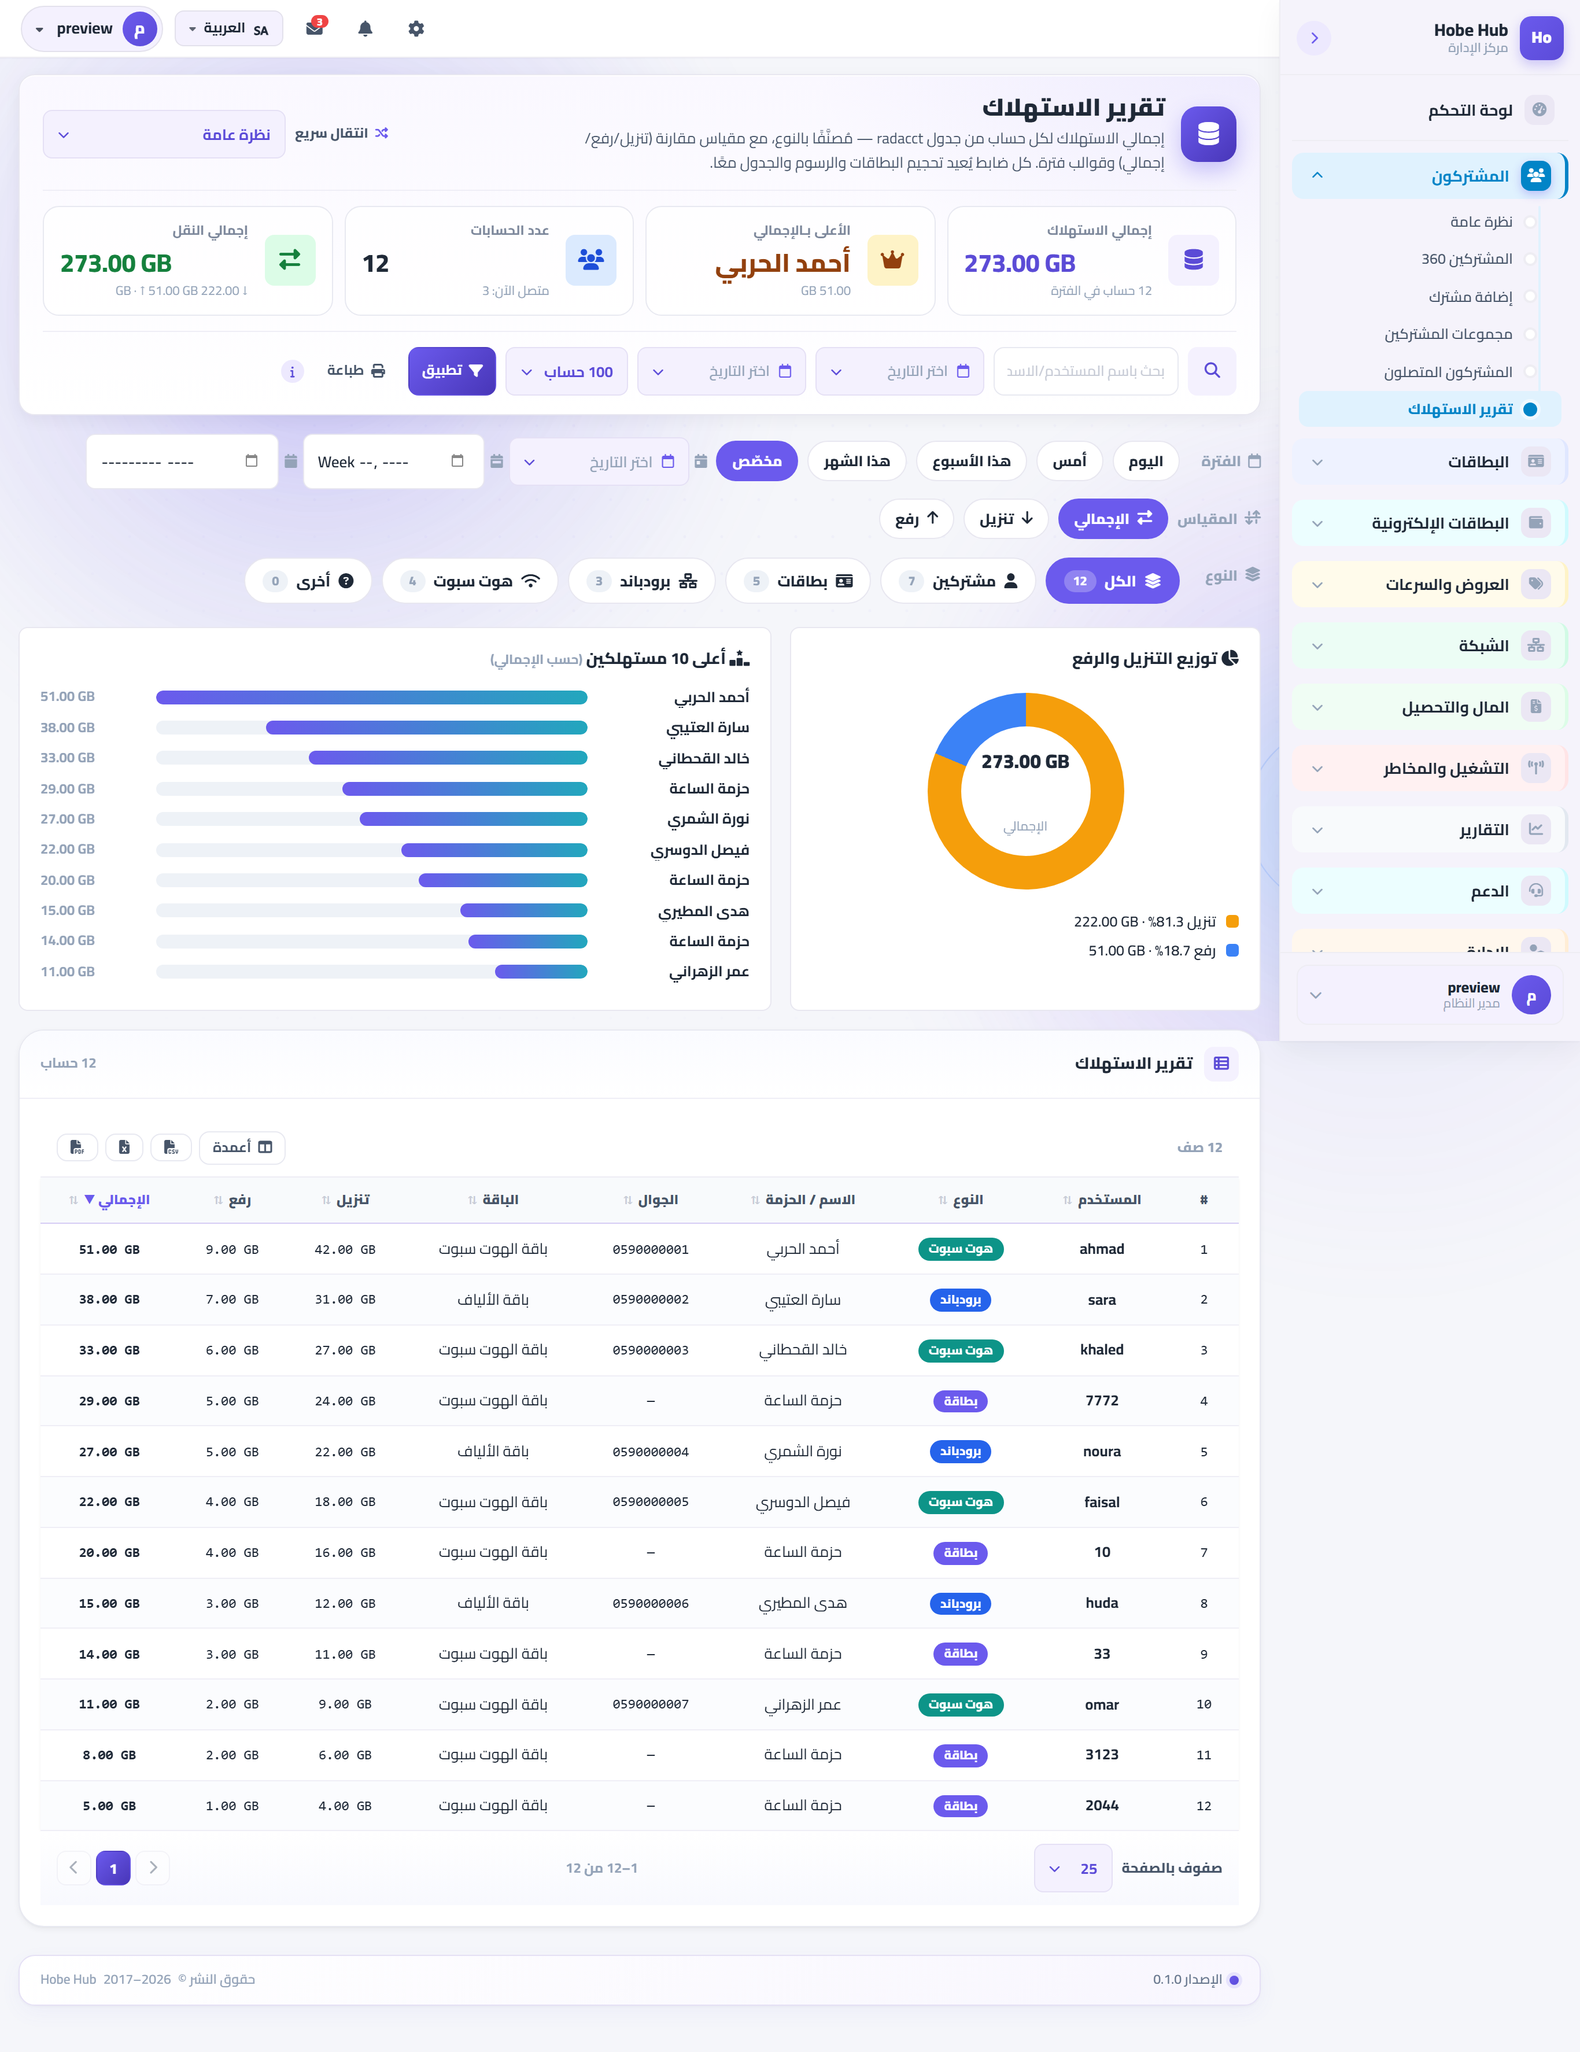
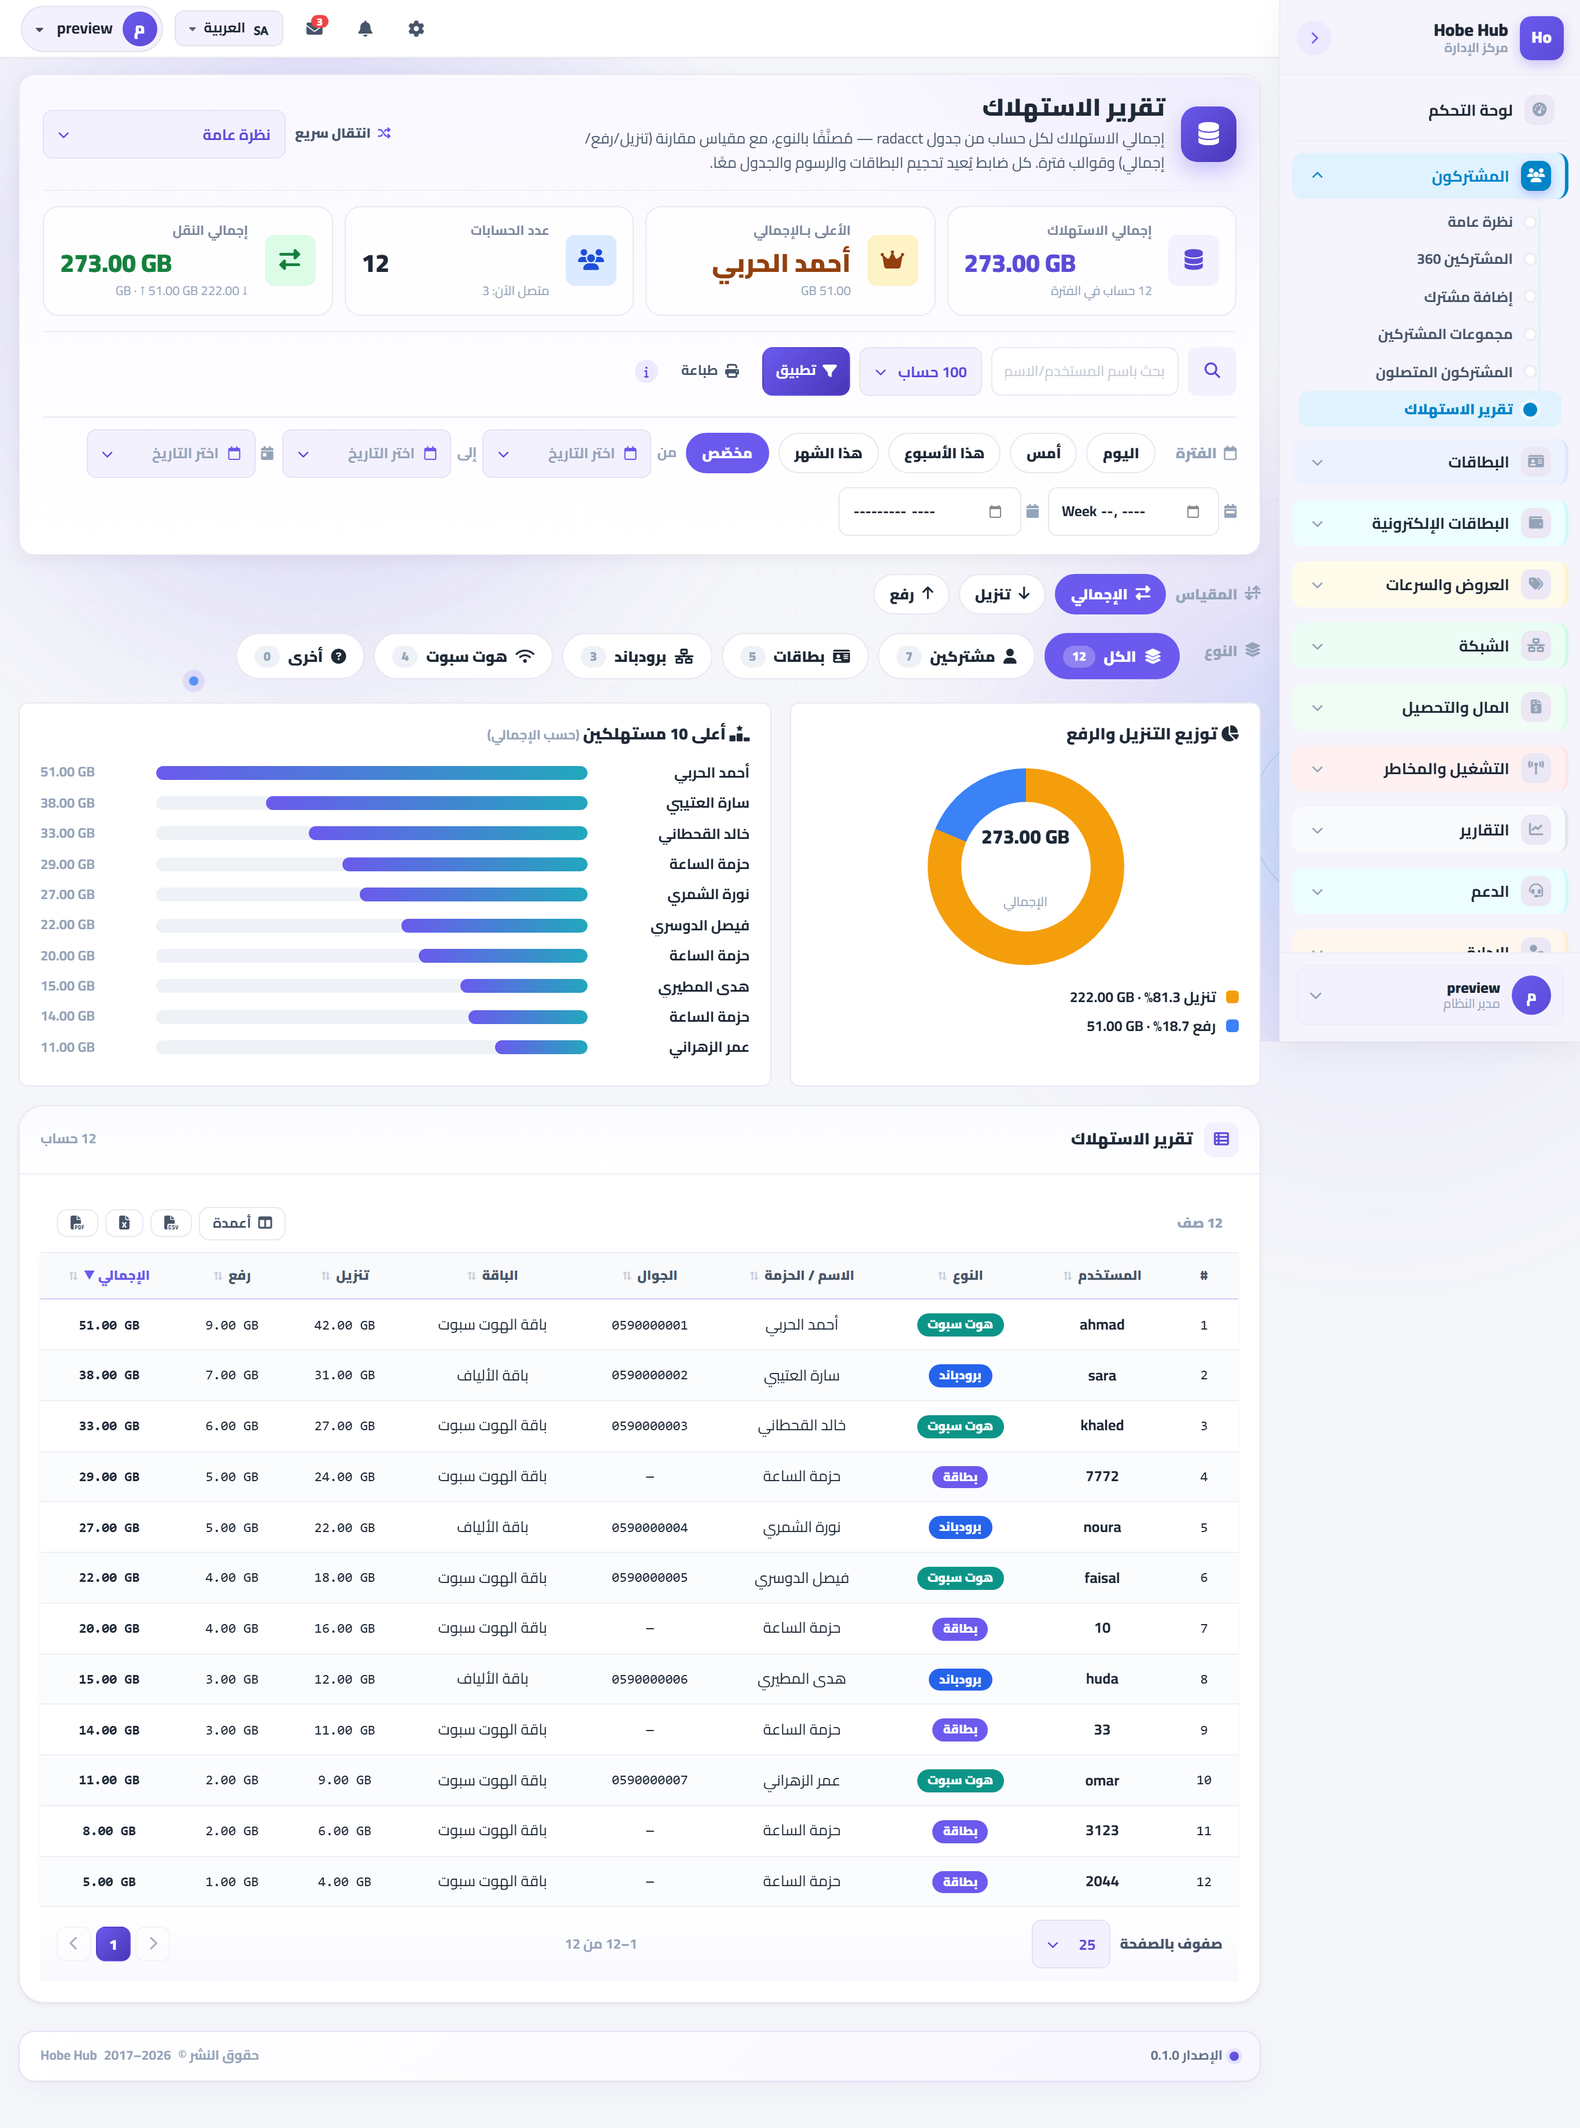
fix(usage-report): إزالة تكرار اختيار التاريخ — مصدر واحد «الفترة»
المالك لاحظ منتقيي تاريخ «اختر التاريخ» في حزام البحث العلوي مكرّرين مع
قسم «الفترة». الإصلاح: نقل ضوابط الفترة كلها إلى صفٍّ واحد داخل نموذج
الحزام نفسه، وإزالة الحقول المكرّرة من أعلى الحزام.

• أعلى الحزام الآن: بحث + حجم الصفحة + تطبيق + طباعة فقط (بلا منتقي تاريخ).
• «الفترة» = المصدر الوحيد لاختيار التاريخ: قوالب سريعة (اليوم/أمس/هذا
  الأسبوع/هذا الشهر/مخصّص) + مدى من/إلى + منتقيات يوم/أسبوع/شهر — كلها
  داخل نموذج واحد (نموذج الهيرو). مجموعة واحدة من حقول التاريخ، لا حقول
  مخفيّة مكرّرة، ولا نموذج منتقيات يتيم (أُزيل الـ<form> المستقل القديم).
• تحرير «مخصّص» (من/إلى) يمسح المنتقيات المحدّدة كي يفوز المدى (أولوية
  الخادم: قالب>محدّد>مخصّص دون تغيير). النوع/المقياس دون مساس.
• Cairo/RTL/نظام التصميم سليم. لا تغيير خلفي (نفس بارامترات reports.py).

اختبار (44، +2): test_single_date_control_set يؤكّد ظهور كل حقل تاريخ
مرّة واحدة بالضبط + لا <form> منتقيات يتيم + بقاء البحث/الحجم؛
test_date_filter_still_applies_after_dedup يؤكّد المخصّص+المحدّد يُعيدان
التحجيم. لقطتا preview محدّثتان تُظهران قسم تاريخ واحدًا. بلا دمج.

diff --git a/app/templates/radius/rep_subscriber_consumption.html b/app/templates/radius/rep_subscriber_consumption.html
@@ -38,6 +38,11 @@
     min-width:62px;display:inline-flex;align-items:center;gap:6px}
   .usage-tabs.sm{margin:0}
   .usage-tabs.sm .usage-tab{padding:7px 13px;font-size:12.5px}
+  /* صفّ الفترة الوحيد داخل حزام الهيرو (يلتفّ لسطر كامل تحت البحث) —
+     مصدر التاريخ الوحيد، لا تكرار في الأعلى. */
+  .usage-period{flex-basis:100%;width:100%;display:flex;align-items:center;
+    flex-wrap:wrap;gap:8px;margin-top:10px;padding-top:10px;
+    border-top:1px solid var(--hub-border,#e6eaf2)}
   /* منتقيات التاريخ المحدّدة: نرث إصلاح وضوح التقويم (no dark-on-dark). */
   .usage-spec{display:inline-flex;align-items:center;gap:5px;font-size:12px;
     font-weight:700;color:var(--hub-text-mute,#475569)}
@@ -105,6 +110,11 @@
 {% set _csw = (spec_week or none) %}
 {% set _csm = (spec_month or none) %}
 {% set _cq = (q or none) %}
+{% set _presets = [
+  ('today','اليوم'),('yesterday','أمس'),('week','هذا الأسبوع'),
+  ('month','هذا الشهر'),('custom','مخصّص')
+] %}
+{% set _metrics = [('total','الإجمالي','right-left'),('dl','تنزيل','arrow-down'),('ul','رفع','arrow-up')] %}
 
 {# ───── مؤشرات KPI من الإجماليات (مفلترة بالنوع+الفترة، مرتّبة بالمقياس) ───── #}
 {% set _top_label = (top.display_name or top.username) if top else '—' %}
@@ -126,15 +136,13 @@
   ],
   search_action=url_for('radius.rep_subscriber_consumption')
 ) %}
-  {# نُبقي النوع+المقياس عبر النموذج؛ النموذج يُرسل بلا preset فيُحلّ بالمنتقي/المخصّص #}
+  {# النوع+المقياس مخفيّان عبر النموذج. ضوابط الفترة كلها في صفٍّ واحد
+     داخل هذا النموذج (مصدر تاريخ وحيد — أُزيلت منتقيات التاريخ المكرّرة
+     من أعلى الحزام). أعلى الحزام: بحث + حجم الصفحة + تطبيق + طباعة فقط. #}
   <input type="hidden" name="type" value="{{ utype }}">
   <input type="hidden" name="metric" value="{{ metric }}">
   <input class="hub-input grow" type="text" name="q"
          placeholder="{{ _('بحث باسم المستخدم/الاسم/الجوال/الحزمة...') }}" value="{{ q or '' }}">
-  <input class="hub-input" type="date" name="date_from"
-         value="{{ filters.date_from if filters else '' }}" title="{{ _('من تاريخ (مخصّص)') }}">
-  <input class="hub-input" type="date" name="date_to"
-         value="{{ filters.date_to if filters else '' }}" title="{{ _('إلى تاريخ (مخصّص)') }}">
   <select class="hub-select" name="limit">
     {% for n in [100, 200, 500, 1000] %}
       <option value="{{ n }}" {% if limit == n %}selected{% endif %}>{{ n }} حساب</option>
@@ -149,17 +157,11 @@
   {% endif %}
   <span class="hub-hint" tabindex="0"
         data-hint="بطاقة=قسيمة هوت سبوت (جدول cards)؛ مشترك=حساب مُسمّى؛ برودباند=PPPoE؛ هوت سبوت=مشترك هوت سبوت؛ أخرى=غير مرتبط. المقياس يقود الترتيب وأعلى-10. التجميع على تاريخ بداية الجلسة."><i class="fa-solid fa-info"></i></span>
-{% endcall %}
-</section>{# /hub-hero-shell #}
-
-{# ───── ضوابط الفترة (قوالب سريعة + منتقيات محدّدة) + المقياس ───── #}
-{% set _presets = [
-  ('today','اليوم'),('yesterday','أمس'),('week','هذا الأسبوع'),
-  ('month','هذا الشهر'),('custom','مخصّص')
-] %}
-{% set _metrics = [('total','الإجمالي','right-left'),('dl','تنزيل','arrow-down'),('ul','رفع','arrow-up')] %}
-<div class="usage-controls" data-testid="usage-controls">
-  <div class="usage-ctl-row" data-testid="usage-date-presets">
+  {# ── الفترة: المصدر الوحيد لاختيار التاريخ (داخل نموذج الحزام نفسه) ──
+     قوالب سريعة (روابط) + مدى مخصّص من/إلى + منتقيات يوم/أسبوع/شهر. تحرير
+     «مخصّص» يمسح المنتقيات المحدّدة كي يفوز المدى (أولوية الخادم:
+     قالب>محدّد>مخصّص). #}
+  <div class="usage-period" data-testid="usage-date-presets">
     <span class="usage-ctl-label"><i class="fa-regular fa-calendar"></i> {{ _('الفترة') }}</span>
     <div class="usage-tabs sm">
       {% for pk, plabel in _presets %}
@@ -169,21 +171,29 @@
                           q=_cq, limit=limit) }}">{{ plabel }}</a>
       {% endfor %}
     </div>
-    {# منتقيات محدّدة: يوم/أسبوع/شهر — تُرسَل عبر نموذج GET مستقل #}
-    <form class="usage-spec" method="get" action="{{ url_for('radius.rep_subscriber_consumption') }}">
-      <input type="hidden" name="type" value="{{ utype }}"><input type="hidden" name="metric" value="{{ metric }}">
-      <input type="hidden" name="q" value="{{ q or '' }}"><input type="hidden" name="limit" value="{{ limit }}">
-      <label class="usage-spec"><i class="fa-solid fa-calendar-day"></i>
-        <input class="hub-input" type="date" name="spec_day" value="{{ spec_day }}"
-               title="{{ _('يوم محدّد') }}" onchange="this.form.submit()"></label>
-      <label class="usage-spec"><i class="fa-solid fa-calendar-week"></i>
-        <input class="hub-input" type="week" name="spec_week" value="{{ spec_week }}"
-               title="{{ _('أسبوع محدّد') }}" onchange="this.form.submit()"></label>
-      <label class="usage-spec"><i class="fa-solid fa-calendar"></i>
-        <input class="hub-input" type="month" name="spec_month" value="{{ spec_month }}"
-               title="{{ _('شهر محدّد') }}" onchange="this.form.submit()"></label>
-    </form>
+    <span class="usage-spec">{{ _('من') }}
+      <input class="hub-input" type="date" name="date_from"
+             value="{{ filters.date_from if filters else '' }}" title="{{ _('من تاريخ (مخصّص)') }}"
+             onchange="this.form.spec_day.value='';this.form.spec_week.value='';this.form.spec_month.value=''">
+      {{ _('إلى') }}
+      <input class="hub-input" type="date" name="date_to"
+             value="{{ filters.date_to if filters else '' }}" title="{{ _('إلى تاريخ (مخصّص)') }}"
+             onchange="this.form.spec_day.value='';this.form.spec_week.value='';this.form.spec_month.value=''"></span>
+    <label class="usage-spec"><i class="fa-solid fa-calendar-day"></i>
+      <input class="hub-input" type="date" name="spec_day" value="{{ spec_day }}"
+             title="{{ _('يوم محدّد') }}" onchange="this.form.submit()"></label>
+    <label class="usage-spec"><i class="fa-solid fa-calendar-week"></i>
+      <input class="hub-input" type="week" name="spec_week" value="{{ spec_week }}"
+             title="{{ _('أسبوع محدّد') }}" onchange="this.form.submit()"></label>
+    <label class="usage-spec"><i class="fa-solid fa-calendar"></i>
+      <input class="hub-input" type="month" name="spec_month" value="{{ spec_month }}"
+             title="{{ _('شهر محدّد') }}" onchange="this.form.submit()"></label>
   </div>
+{% endcall %}
+</section>{# /hub-hero-shell #}
+
+{# ───── ضوابط المقياس (الفترة صارت في حزام الهيرو أعلاه) ───── #}
+<div class="usage-controls" data-testid="usage-controls">
   <div class="usage-ctl-row" data-testid="usage-metric">
     <span class="usage-ctl-label"><i class="fa-solid fa-arrow-down-up-across-line"></i> {{ _('المقياس') }}</span>
     <div class="usage-tabs sm">

diff --git a/tests/test_rep_subscriber_consumption.py b/tests/test_rep_subscriber_consumption.py
@@ -325,3 +325,26 @@ def test_controls_present(app):
     # أزرار المقياس (تنزيل/رفع/الإجمالي) حاضرة كروابط.
     assert 'data-usage-metric="dl"' in html and 'data-usage-metric="ul"' in html
     assert 'data-usage-metric="total"' in html
+
+
+def test_single_date_control_set(app):
+    """إصلاح التكرار: مجموعة واحدة فقط من منتقيات التاريخ على الصفحة —
+    لا «اختر التاريخ» مكرّر في الحزام العلوي مع قسم «الفترة»."""
+    html = _html(app)
+    # كل حقل تاريخ يظهر مرّة واحدة بالضبط (لا نسخة علوية + نسخة في الفترة).
+    for nm in ("date_from", "date_to", "spec_day", "spec_week", "spec_month"):
+        assert html.count('name="%s"' % nm) == 1, \
+            "حقل التاريخ %s مكرّر/مفقود (المتوقّع مرّة واحدة)" % nm
+    # قسم «الفترة» الوحيد، ولا نموذج منتقيات مستقل قديم (دُمج في الحزام).
+    assert html.count('data-testid="usage-date-presets"') == 1
+    assert 'class="usage-spec" method' not in html  # لا <form> منتقيات يتيم
+    # الحزام العلوي يبقى فيه البحث + الحجم + تطبيق + طباعة.
+    assert 'name="q"' in html and 'name="limit"' in html
+
+
+def test_date_filter_still_applies_after_dedup(app):
+    """المصدر الوحيد يُرسل المدى صحيحًا: مخصّص + محدّد يُعيدان التحجيم."""
+    # عيّنة data في 2026-06-10 (ضمن المثبّت _seed_mixed).
+    assert "أحمد حسن" in _html(app, "?date_from=2026-06-01&date_to=2026-06-30")
+    assert "لا استهلاك في النتائج" in _html(app, "?date_from=2030-01-01&date_to=2030-01-31")
+    assert "أحمد حسن" in _html(app, "?spec_month=2026-06")
